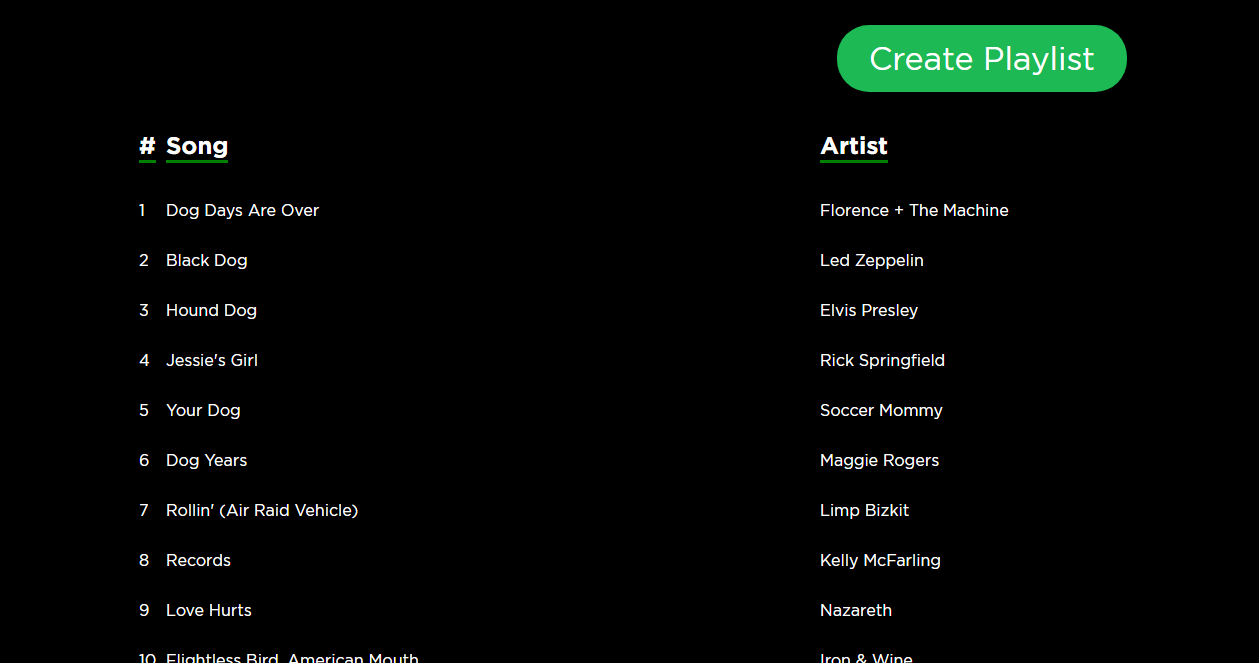
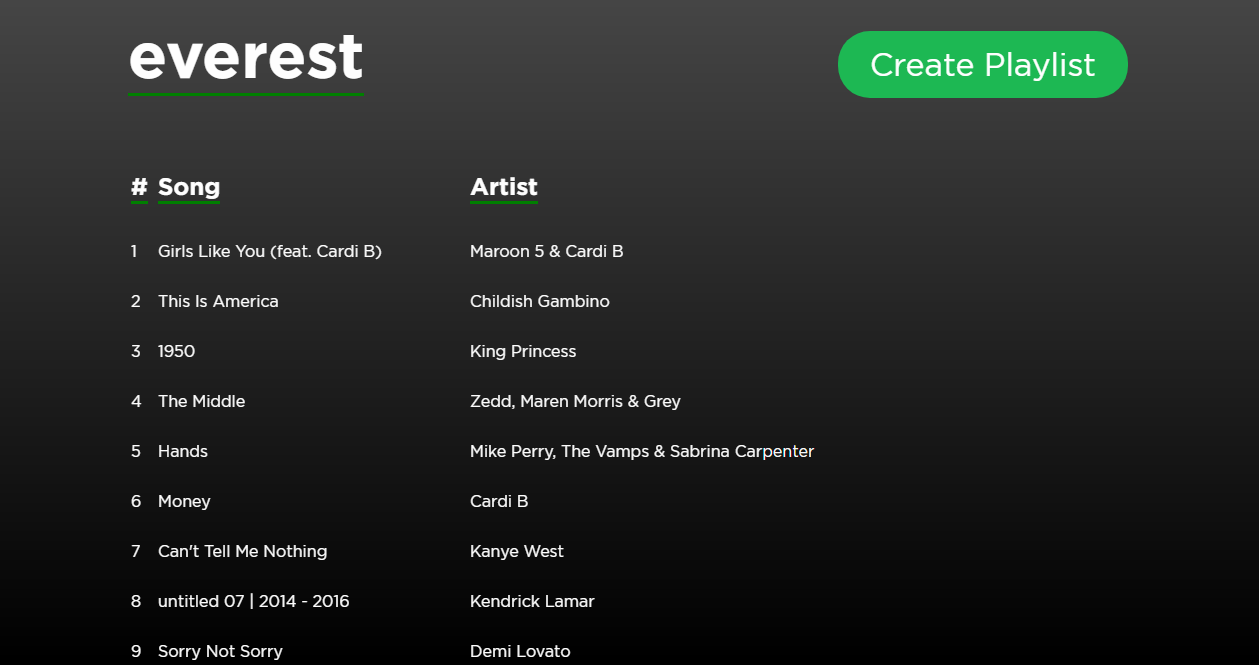
readme updates

diff --git a/README.md b/README.md
@@ -22,3 +22,9 @@ The main workflow for the app is as follows:
 ![Landing Page](./product/landing.png)
 
 ![Upload Page](./product/upload.png)
+
+![Playlist-1](./product/playlist-1.png)
+
+![Playlist-2](./product/playlist-2.png)
+
+![Share](./product/share.png)
